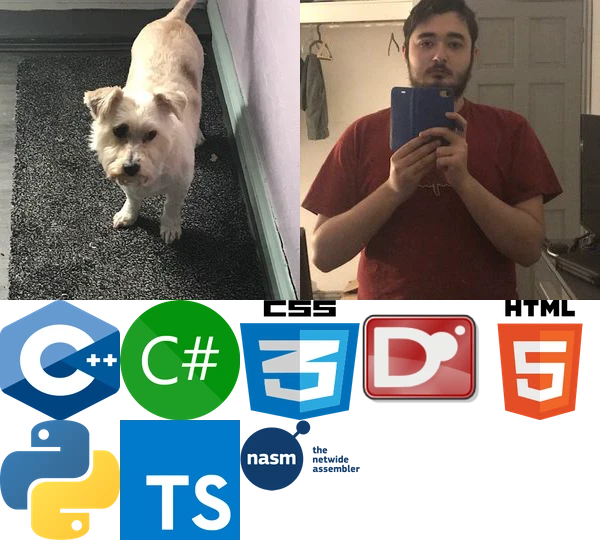
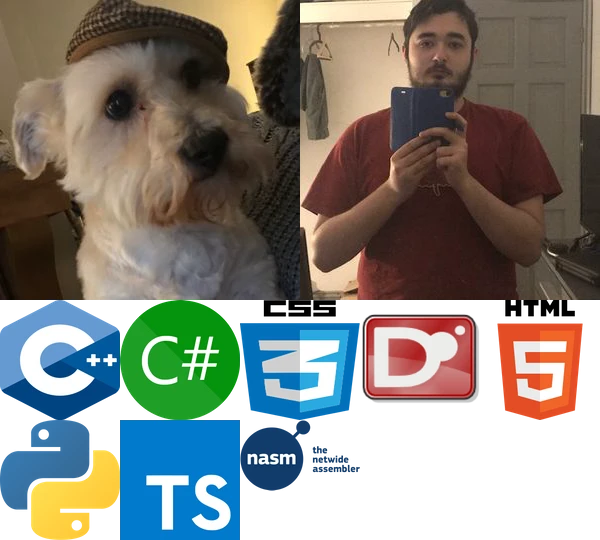
Update Cooper

Changed region(s): [[0.0, 0.0, 0.51, 0.563]]

diff --git a/PersonalWebsite/gulpfile.js b/PersonalWebsite/gulpfile.js
@@ -62,10 +62,15 @@ gulp.task("sass", gulp.series("compile-sass", "minify-css"));
 
 // Create image atlases
 const indexAtlas = {
-    "+(cooper.*|selfie.*)": {
+    "selfie*": {
         width: 300,
         height: 300,
         rotate: 90
+    },
+    "cooper*": {
+        width: 300,
+        height: 300,
+        position: "top"
     },
     "nasm*": {
         width: 120,
